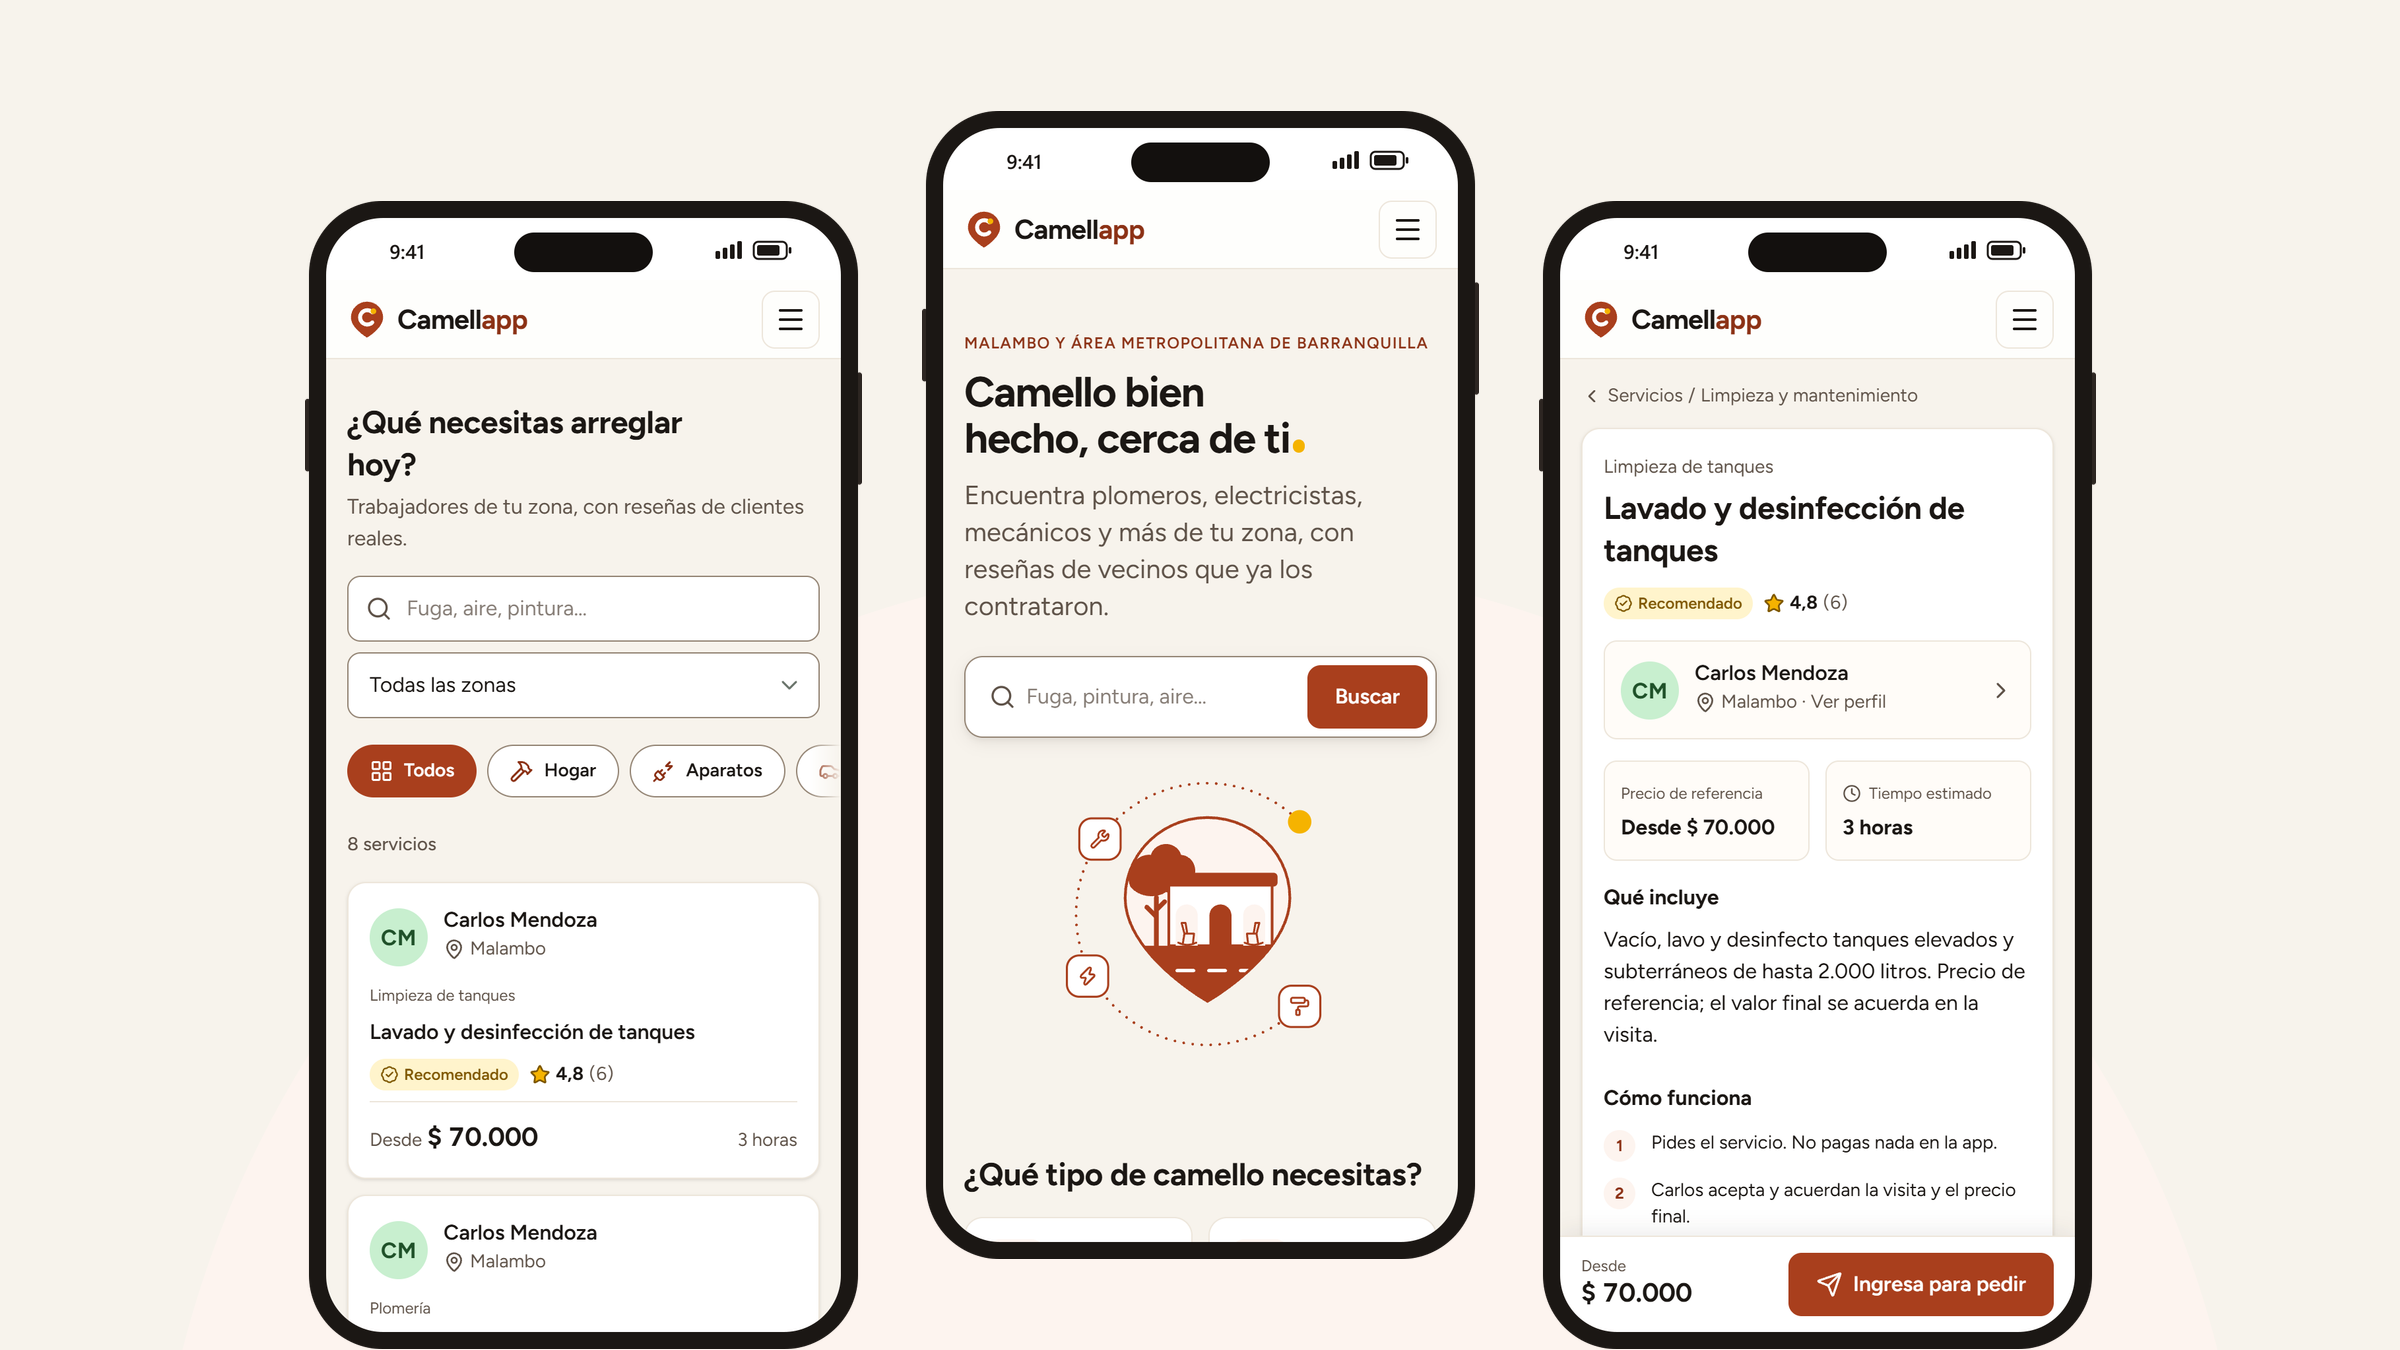
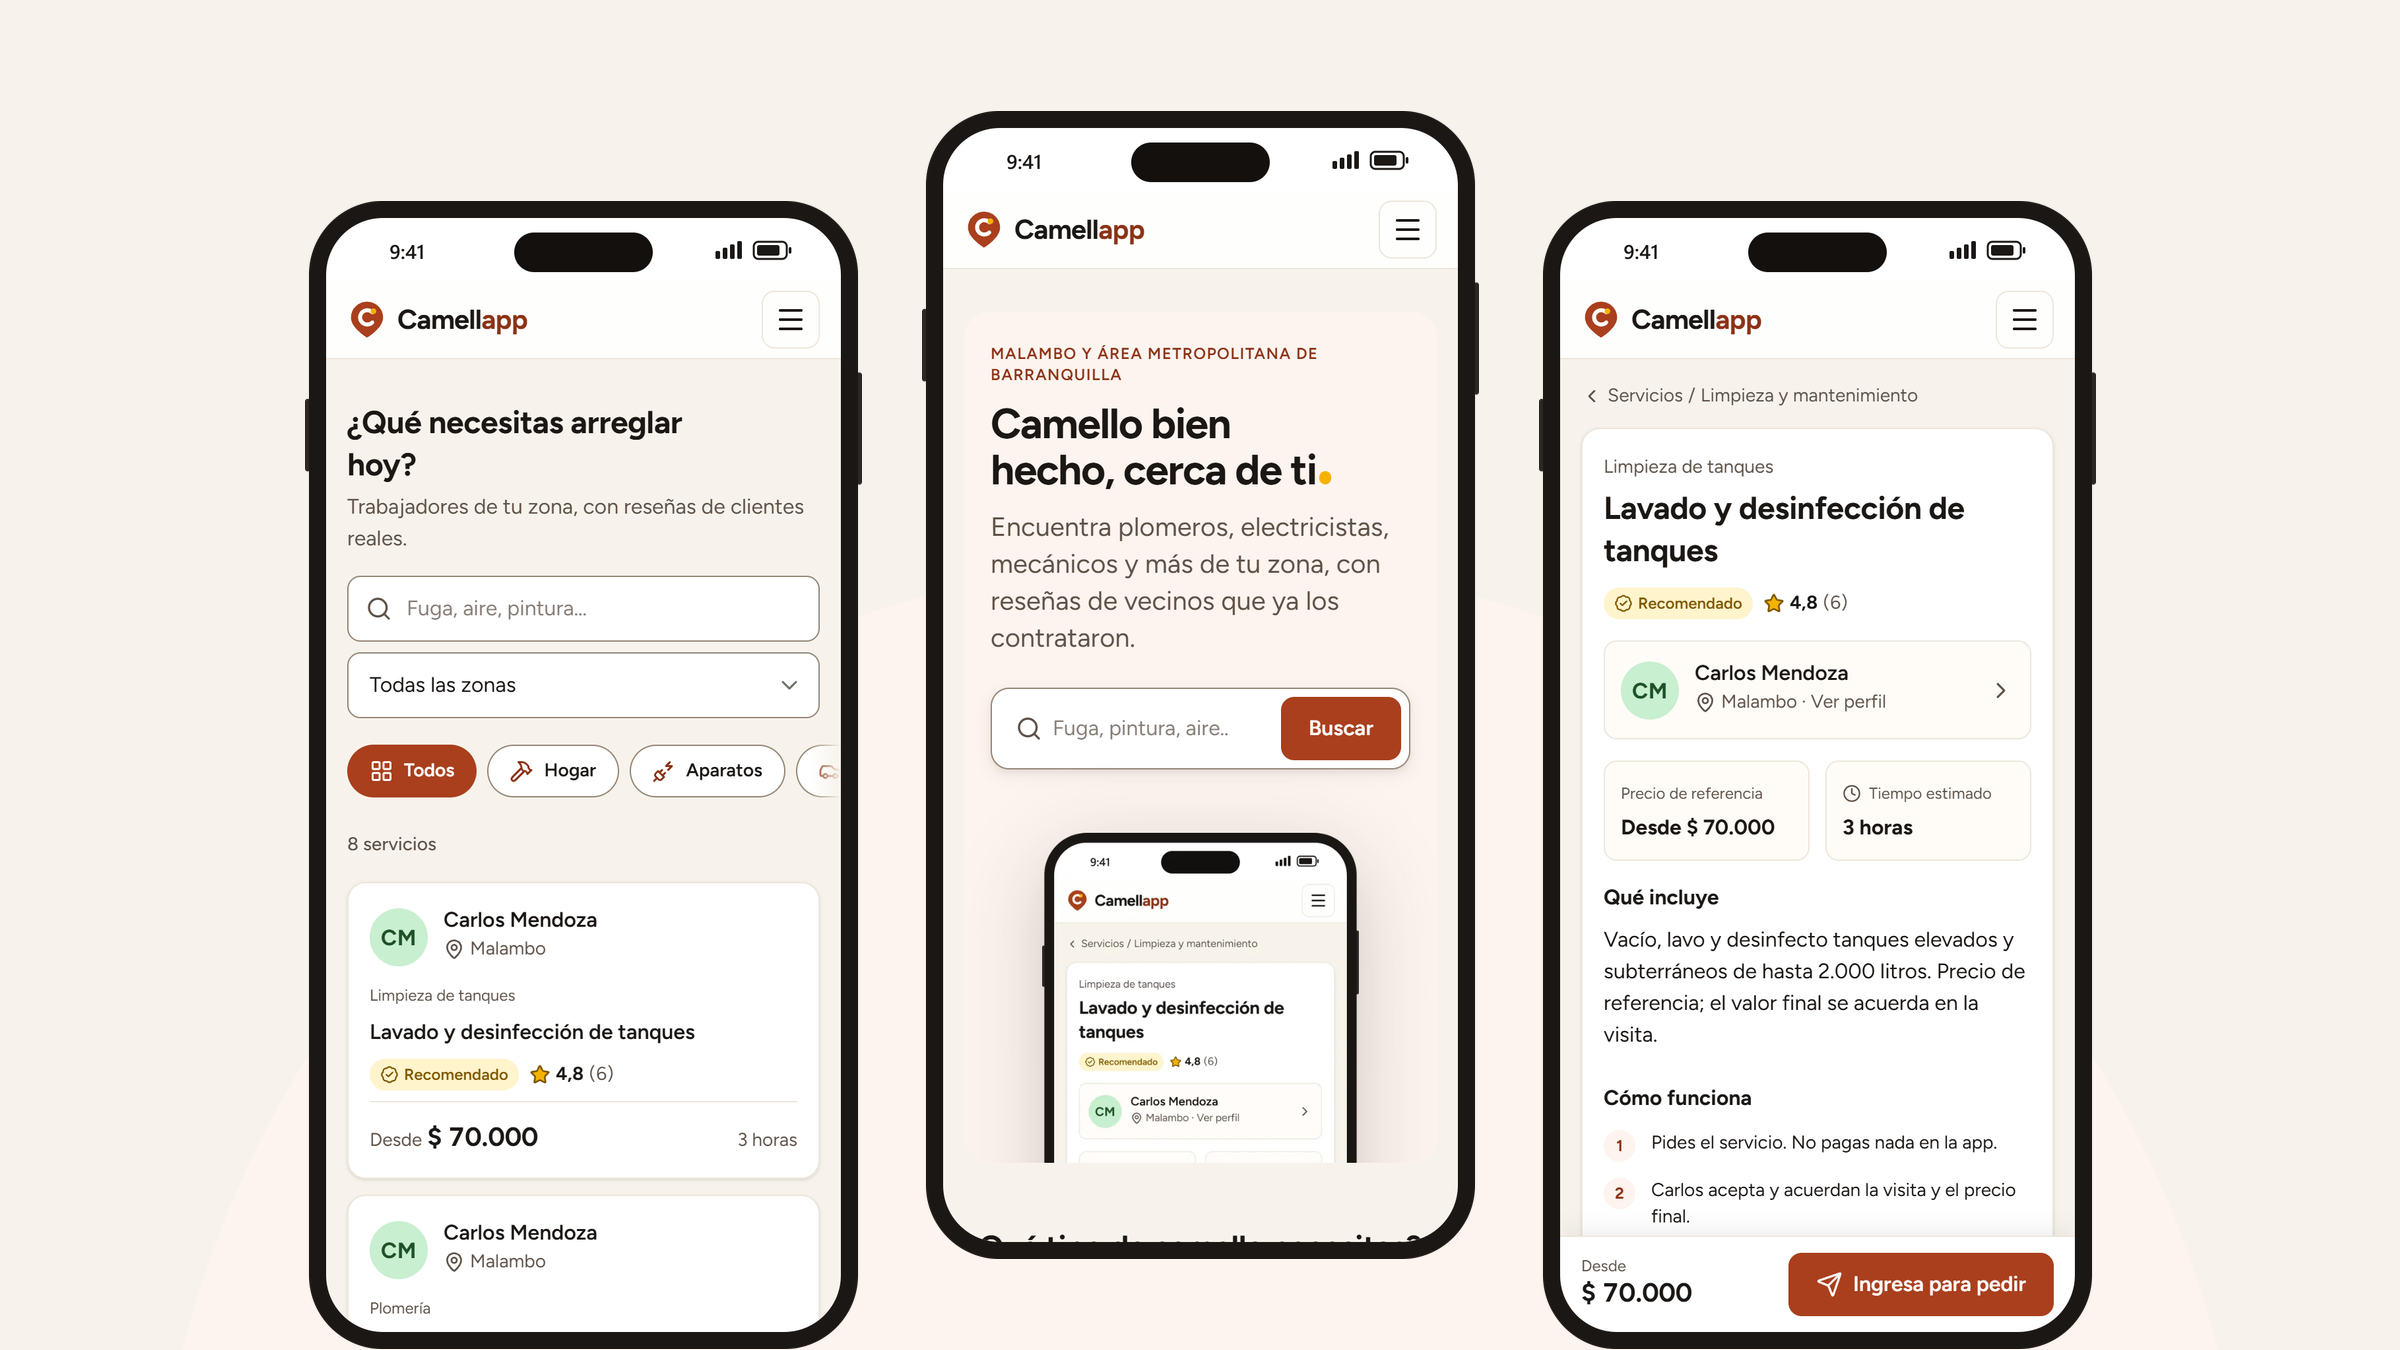
Inicio: precarga la imagen del héroe (LCP) y mockups con el héroe nuevo

Changed region(s): [[0.4062, 0.2489, 0.5938, 0.9022]]

diff --git a/frontend/index.html b/frontend/index.html
@@ -11,6 +11,10 @@
     <link rel="icon" href="/favicon-32.png" sizes="32x32" type="image/png" />
     <link rel="apple-touch-icon" href="/apple-touch-icon.png" />
     <link rel="manifest" href="/manifest.webmanifest" />
+    <!-- La foto del teléfono es el LCP del inicio: se pide en paralelo con el JS en vez de esperar a React.
+         Mismos srcset/sizes que el <img> (si no coinciden, se descargaría dos veces). -->
+    <link rel="preload" as="image" fetchpriority="high" href="/heroe-telefono-560.webp"
+      imagesrcset="/heroe-telefono-320.webp 320w, /heroe-telefono-560.webp 560w" imagesizes="(min-width: 900px) 300px, 240px" />
     <!-- Vista previa al compartir el enlace (WhatsApp, Facebook) -->
     <meta property="og:type" content="website" />
     <meta property="og:locale" content="es_CO" />
